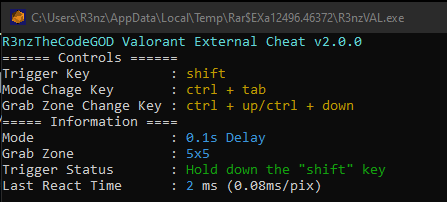
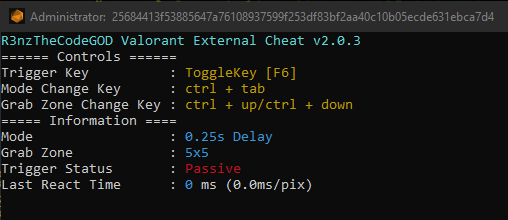
v2.0.3 | Readme and assets update

Changed region(s): [[0.0, 0.0, 1.0, 1.0], [0.3199, 0.7426, 0.8725, 0.9505], [0.2036, 0.8911, 0.2908, 0.9505]]

diff --git a/README.md b/README.md
@@ -1,8 +1,14 @@
-# R3nzTheCodeGOD Valorant External Cheat
-- **Status:** `UNDEDECTED`
-- **When you take your crosshair to the man, it shoots at the enemy in 5ms.**
+<p align="center">
+    <img height=250 src=".assets/0.png" >
+    <br>
+    <i>R3nzTheCodeGOD Valorant External Cheat</i>
+</p>
 
-## Download and Using 
+# **R3nzTheCodeGOD Valorant External Cheat**
+- **Status:** `UNDEDECTED`
+- **The Cheat that hits the opponents approaching the barrel in an average of 5ms.**
+
+## **Download and Using** 
 
 ### I suggest
 - download code `git clone https://github.com/R3nzTheCodeGOD/Valorant-External-Cheat.git`
@@ -14,26 +20,43 @@
 - download the latest version [here](https://github.com/R3nzTheCodeGOD/Valorant-External-Cheat/releases)
 - run `R3nzVal.exe`
 
-## Game Settings and Note
+## **Game Settings and Note**
 - **You have to play the game in `purple colorblind mode`**
 - **if it doesn't work in fullscreen try it in fullscreen windowed mode**
 
-## Ban Risk
-- 6 months no one has been banned by this cheat
+## **Keybinds and Config**
 
-## Keybinds
-- The cheat works as long as you hold down the `Shift` key
+### Config
+- To change the cheat settings, make changes to the `config.json` file that occurs after opening the cheat.
+- `"IsHoldKey"`: Will the cheat work in `Hold Key` mode or `Toggle Key` mode?
+- `"HoldKey"`  : `Hold Key` name to use
+- `"ToggleKey"`: `Toggle Key` name to use
+
+### Default Keybinds
+- The cheat comes in `Toggle Key` mode by default and can be turned on or off with the `F6` key.
 - `ctrl + tab` to switch mode
 - `ctrl + down` to decrease `ctrl + up` to increase the trigger area
 
-## Changelog
+## **Ban Risk**
+- 6 months no one has been banned by this cheat
+
+## **Changelog**
+
+### Version v2.0.3
+- New Config System
+- Added HoldKey and ToggleKey mode
+
+<details>
+
 ### Version v2.0.2
 - 1ms performance boost
 - Purple color update
 - 2 new mode
+
 ### Version v2.0.1
 - Keyboard input lag issue fixed
 - New sha256 hash system
+
 ### Version v2.0.0
 - Increased performance, faster reaction time.
 - Higher Security
@@ -41,6 +64,3 @@
 - Holding down operating mode added continuous operation removed.
 - Bunny hop was removed because it negatively affected the performance. Will be added later
 - The program has been switched to the English language.
-
-## Images from the program
-<img src=".assets/0.png">
